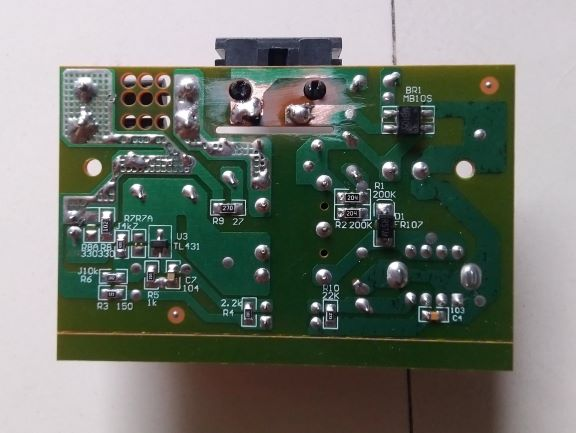
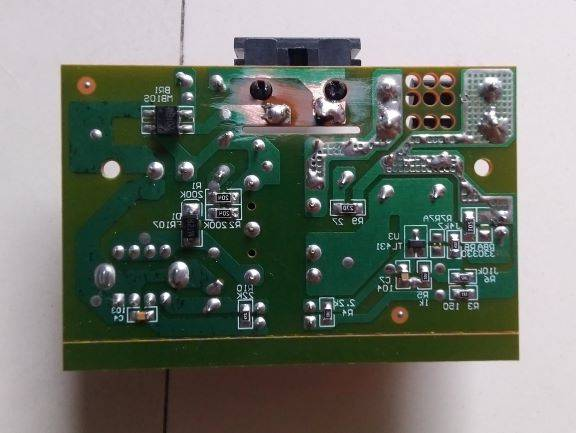
Finished v1.0

diff --git a/_posts/2020-2-13-Fan Repair.md b/_posts/2020-2-13-Fan Repair.md
@@ -1,0 +1,33 @@
+---
+layout: post
+title: "Repair Bin: Kyowa NTMRF8"
+categories: teardown, repair
+---
+### The Portable Fan / Radio / Light / Powerbank 
+![The fan](/assets/teardown/Fan.png)
+This multifunctional rechargeable fan has been pretty good. However, it's not able to charge and kept the battery drained recently. There were popping noises on the unit whenever I plug it in and there is certainly something wrong with it.
+
+### Disassembly
+![Back cover removed](/assets/teardown/overview.jpg)
+Disassembly was pretty easy but take note that the screws were treated with Loctite. A little bit of force is required to undo the seal but it is easier than undoing clips by prying.
+
+### The Cause
+![The cause](/assets/teardown/power_back.jpg)
+One terminal at the voltage inputs on the power supply board was burnt. A bad solder job is probably the cause for this kind of failure.
+
+### The Fixed Board
+
+![Fixed board](/assets/teardown/power_fixed.jpg)
+The solder mask was sanded down and both terminals were resoldered and given plenty of lead for better contact.
+
+### Other Pictures
+![Supply board](/assets/teardown/power_front_labelled.png)
+The supply board is a typical switch-mode power supply with 220V AC input to 7.8V DC output.
+
+![Main board Front](/assets/teardown/control_front.jpg)
+
+The main board seems to be a single layer copper PCB. 
+
+![Main board Back](/assets/teardown/control_back.jpg)
+
+The PCB is tightly packed, a more thorough analysis on this board might be nice.
